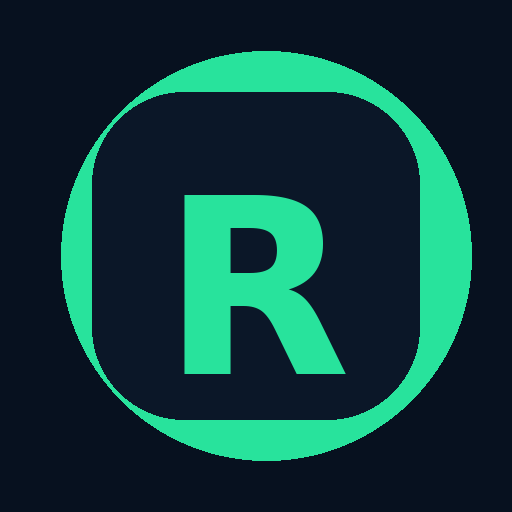
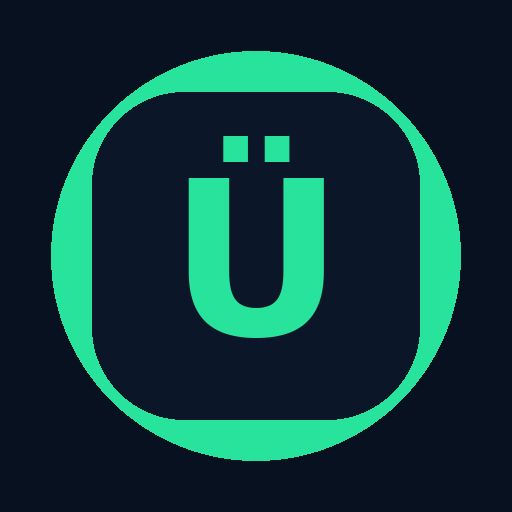
Add files via upload

diff --git a/index.html b/index.html
@@ -3,7 +3,7 @@
 <head>
   <meta charset="UTF-8" />
   <meta name="viewport" content="width=device-width, initial-scale=1.0, viewport-fit=cover" />
-  <title>Remisímetro GPS</title>
+  <title>ÜBERDO GO</title>
   <link rel="manifest" href="manifest.json" />
   <meta name="theme-color" content="#07111f" />
   <meta name="mobile-web-app-capable" content="yes" />
@@ -231,10 +231,10 @@
     <section class="left">
       <header>
         <div class="brand">
-          <div class="logo">R</div>
+          <div class="logo">Ü</div>
           <div>
-            <h1>Remisímetro GPS</h1>
-            <div class="sub" id="subtitle">Listo para iniciar viaje</div>
+            <h1>ÜBERDO GO</h1>
+            <div class="sub" id="subtitle">Sistema listo para viajar</div>
           </div>
         </div>
         <div class="status"><span class="dot" id="gpsDot"></span><span id="gpsStatus">GPS pendiente</span></div>
@@ -302,7 +302,7 @@
   </main>
 
 <script>
-const VERSION = "1.0.0";
+const VERSION = "1.1.0";
 const CACHE_LABEL = "remisimetro-gps";
 
 let watchId = null;
@@ -379,7 +379,7 @@ function updateUI(){
 
   if(!isRunning){
     $("rideState").textContent = "● Libre";
-    $("subtitle").textContent = "Listo para iniciar viaje";
+    $("subtitle").textContent = "Sistema listo para viajar";
   } else if(isPaused){
     $("rideState").textContent = "● Pausado";
     $("subtitle").textContent = "Viaje pausado";
@@ -619,6 +619,12 @@ if("serviceWorker" in navigator){
     navigator.serviceWorker.register("./service-worker.js").catch(console.warn);
   });
 }
+
+// Mini diagnóstico visible en consola para instalación PWA.
+window.addEventListener("appinstalled", () => console.log("ÜBERDO GO instalado como PWA"));
+window.addEventListener("beforeinstallprompt", () => console.log("ÜBERDO GO listo para instalar"));
+console.log("ÜBERDO GO v1.1.0 cargado desde:", location.href);
+
 </script>
 </body>
 </html>

diff --git a/service-worker.js b/service-worker.js
@@ -1,4 +1,4 @@
-const CACHE_NAME = "remisimetro-gps-v1";
+const CACHE_NAME = "uberdo-go-v2";
 const ASSETS = [
   "./",
   "./index.html",
@@ -24,6 +24,13 @@ self.addEventListener("activate", event => {
 });
 
 self.addEventListener("fetch", event => {
+  if (event.request.mode === "navigate") {
+    event.respondWith(
+      fetch(event.request).catch(() => caches.match("./index.html"))
+    );
+    return;
+  }
+
   event.respondWith(
     caches.match(event.request).then(cached => cached || fetch(event.request))
   );

diff --git a/README.md b/README.md
@@ -1,28 +1,31 @@
-# Remisímetro GPS PWA
+# ÜBERDO GO
 
-PWA para probar un remisímetro/taxímetro con GPS.
+PWA apaisada para medir viajes con GPS.
 
-## Archivos
+## Subida a GitHub Pages
 
-- `index.html`
-- `manifest.json`
-- `service-worker.js`
-- `icon-192.png`
-- `icon-512.png`
+Subir estos archivos a la raíz del repo:
 
-## Subir a GitHub Pages
+- index.html
+- manifest.json
+- service-worker.js
+- icon-192.png
+- icon-512.png
 
-1. Crear un repositorio nuevo.
-2. Subir estos archivos en la raíz del repo.
-3. Ir a Settings → Pages.
-4. Source: Deploy from branch.
-5. Branch: main / root.
-6. Abrir la URL publicada desde Chrome Android.
-7. Menú ⋮ → Agregar a pantalla principal.
+Luego:
+1. Settings → Pages.
+2. Deploy from branch.
+3. Branch: main / root.
+4. Abrir la URL publicada en Chrome Android.
+5. Menú ⋮ → Agregar a pantalla principal / Instalar.
 
-## Notas
+## Si instala pero no abre
 
-- El cálculo es estimativo, no homologado.
-- La navegación se abre en Google Maps o Waze.
-- El historial y tarifas se guardan en localStorage.
-- Si no ves cambios después de actualizar, cambiar el nombre de cache en `service-worker.js`.
+1. Borrar el ícono instalado anterior.
+2. En Chrome: Configuración → Configuración de sitios → Todos los sitios.
+3. Buscar el dominio de GitHub Pages.
+4. Borrar datos.
+5. Volver a abrir la URL.
+6. Instalar otra vez.
+
+Esta versión usa cache: uberdo-go-v2.
